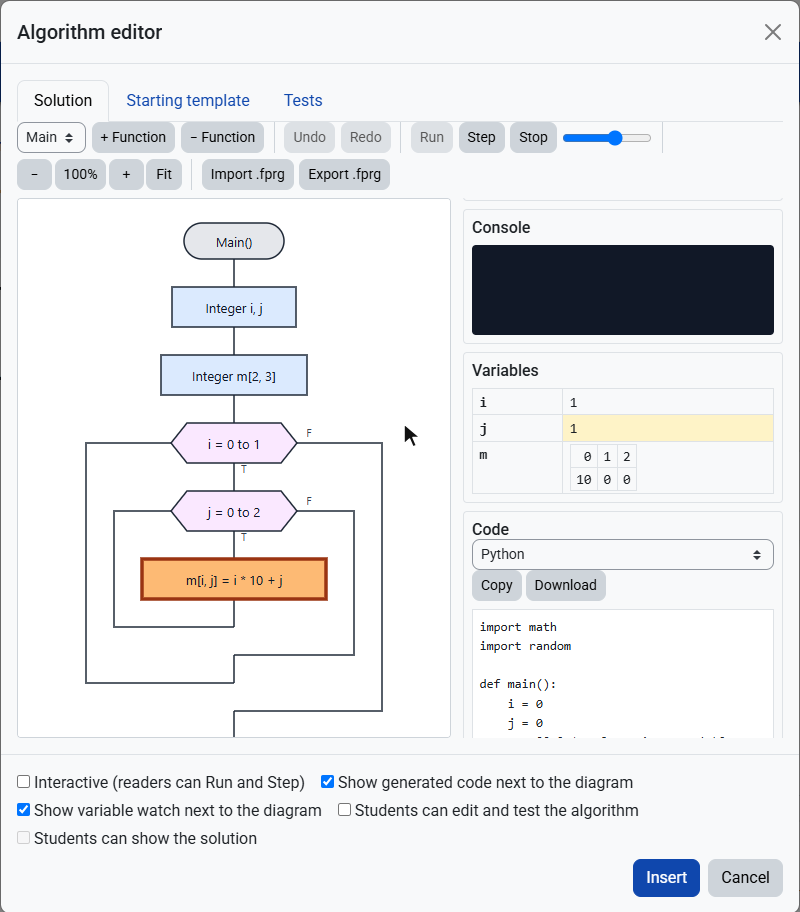
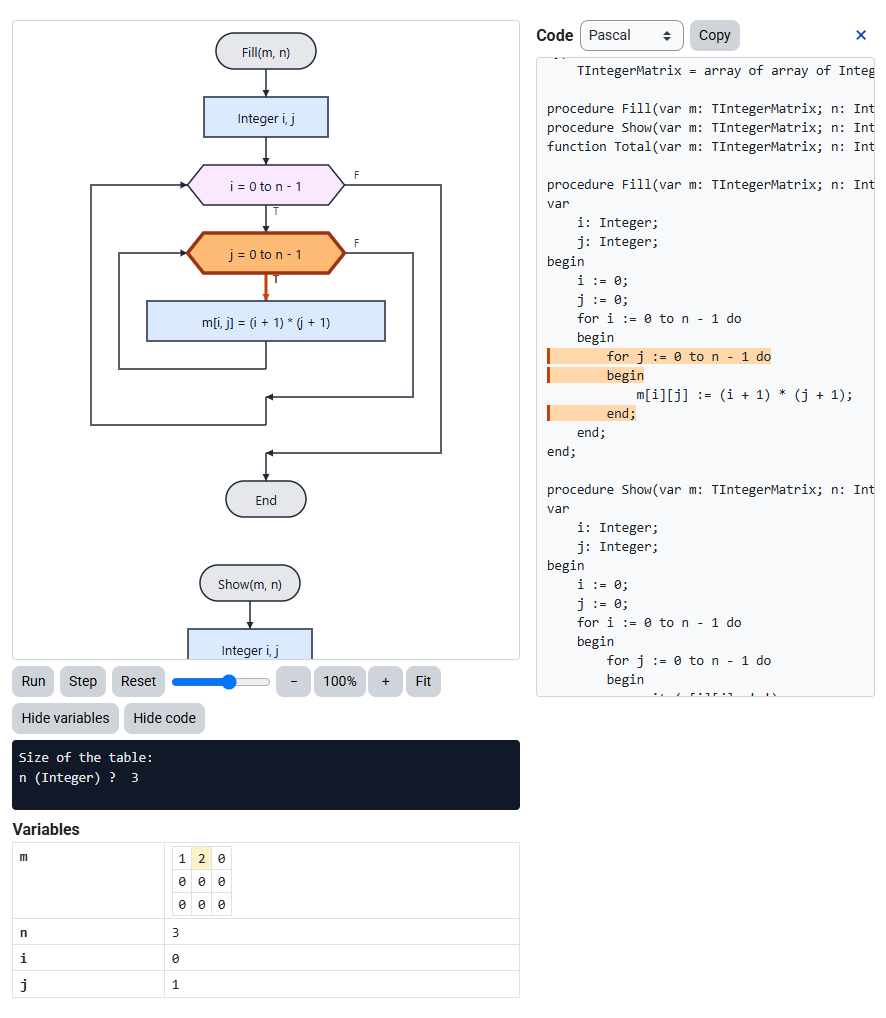
Release 2.2.0
Version, changelog, README, Marketplace description and screenshots for 2.2.0.

diff --git a/description.html b/description.html
@@ -10,12 +10,12 @@
   <p><strong>Live demo:</strong> try the plugin on <a href="https://algorithm.tsp.edu.rs" target="_blank" rel="noreferrer noopener">algorithm.tsp.edu.rs</a>. Log in as a guest, or use the demo accounts <strong>teacher</strong> and <strong>student</strong> (password <strong>Demo-2026</strong>). Everything is reset every night.</p>
 
   <hr>
-  <p><strong>What's New in v2.1.0</strong></p>
+  <p><strong>What's New in v2.2.0</strong></p>
   <ul>
-    <li><strong>Arrows:</strong> every connection that enters a block, goes back to the condition of a loop or joins another line ends in an arrow, so the direction of the flow is always clear.</li>
-    <li><strong>The branch taken is marked:</strong> during Run and Step, the T or F branch of every If, While, For and Do...While is coloured as the algorithm takes it, in the editor, in pages with filter_algorithm and in quiz questions.</li>
-    <li><strong>Save as SVG or PNG:</strong> download the whole diagram as a picture for handouts, tests on paper and slides.</li>
-    <li><strong>Names as declared in the code:</strong> a variable declared as Suma is written Suma everywhere in the generated code, also where the diagram says suma, so the code compiles in every language.</li>
+    <li><strong>The code follows the diagram:</strong> during Run and Step the lines of the generated code that belong to the current block are highlighted, in the editor, in pages and in quiz questions.</li>
+    <li><strong>Matrices as parameters:</strong> a function can take a matrix, written m: Integer[,], passed by reference like an array, in the interpreter and the code of all seven languages.</li>
+    <li><strong>Do...While shows its F branch:</strong> the line below the condition is labelled F and is marked when the loop ends.</li>
+    <li><strong>Generated code:</strong> Pascal writes Char(s, i) as a string of one character, so ToCode of it compiles.</li>
   </ul>
 
   <hr>
@@ -24,9 +24,11 @@
     <li><strong>Visual editor:</strong> Declare, Assign, Input, Output, If, For, While, Do...While, Call, Return, Comment; several functions, undo / redo.</li>
     <li><strong>Drag, copy and paste:</strong> drag a block onto a + sign with the mouse or a finger; Ctrl + C, X, V and D copy, cut, paste and duplicate blocks, also between diagrams.</li>
     <li><strong>Arrays and matrices:</strong> m[i, j] in the interpreter, the variable watch and the code in all seven languages.</li>
-    <li><strong>Interpreter:</strong> Run / Step / Stop, console with input, variable watch, infinite-loop guard and clear error messages.</li>
+    <li><strong>Save as SVG or PNG:</strong> the whole diagram as a picture for handouts and slides.</li>
+    <li><strong>Interpreter:</strong> Run / Step / Stop, console with input, variable watch, infinite-loop guard and clear error messages; the current block and the branch each condition takes are marked.</li>
+    <li><strong>Arrows:</strong> every connection that enters a block, goes back to a loop condition or joins another line ends in an arrow.</li>
     <li><strong>Flowgorithm files:</strong> import and export real <code>.fprg</code> files.</li>
-    <li><strong>Code generation:</strong> Python, C, C++, Java, C#, JavaScript and Pascal.</li>
+    <li><strong>Code generation:</strong> Python, C, C++, Java, C#, JavaScript and Pascal, every name written as declared.</li>
     <li><strong>Editable images:</strong> the diagram is an SVG image that keeps its model; double-click to edit again. Zoom and per-diagram options included.</li>
     <li><strong>Students edit and test:</strong> with filter_algorithm, students can change their own copy of a diagram in any content and run the teacher's tests.</li>
     <li><strong>Tests from the solution:</strong> the teacher enters only the inputs; the expected outputs are computed from the teacher's solution. A test can also call one function and check the value it returns.</li>
@@ -44,7 +46,7 @@
   <p><strong>Requirements</strong></p>
   <ul>
     <li><strong>Moodle:</strong> 4.5 LTS to 5.3 (PHP as required by your Moodle version).</li>
-    <li><strong>Companion plugins (optional):</strong> filter_algorithm 2.0.0 (Run / Step and the student features for readers) and qtype_algorithm 2.0.0 (quiz question type with automatic grading).</li>
+    <li><strong>Companion plugins (optional):</strong> filter_algorithm 2.2.0 (Run / Step and the student features for readers) and qtype_algorithm 2.2.0 (quiz question type with automatic grading).</li>
   </ul>
 
   <hr>

diff --git a/version.php b/version.php
@@ -25,8 +25,8 @@
 defined('MOODLE_INTERNAL') || die();
 
 $plugin->component = 'tiny_algorithm';
-$plugin->version   = 2026110400;
+$plugin->version   = 2026110500;
 $plugin->requires  = 2024100700; // Moodle 4.5.
 $plugin->supported = [405, 503];
 $plugin->maturity  = MATURITY_STABLE;
-$plugin->release   = '2.1.0';
+$plugin->release   = '2.2.0';

diff --git a/README.md b/README.md
@@ -10,7 +10,7 @@
 export Flowgorithm `.fprg` files and generate **Python**, **C**, **C++**, **Java**, **C#**, **JavaScript** or **Pascal** code -
 without leaving the editor.
 
-> Status: **stable** (2.1). Inspired by Flowgorithm, not affiliated with it.
+> Status: **stable** (2.2). Inspired by Flowgorithm, not affiliated with it.
 >
 > 🌐 **Live demo:** [algorithm.tsp.edu.rs](https://algorithm.tsp.edu.rs) (log in as a guest, or use `teacher` / `student` with password `Demo-2026`; reset every night)
 
@@ -20,14 +20,14 @@ without leaving the editor.
 |---------|-------------|
 | 🧱 **Visual Editor** | Declare, Assign, Input, Output, If, For, While, Do…While, Call, Return, Comment; several functions, undo / redo; renaming a function also renames its calls |
 | ✋ **Drag, Copy and Paste** | Drag a block onto a **+** sign with the mouse or a finger; **Ctrl + C / X / V / D** copy, cut, paste and duplicate blocks, also between diagrams; a right click (or Shift + F10) on a block opens a menu with Copy, Cut, Duplicate, Paste, Delete and **Move to… / Copy to…**, which lets you click the **+** sign where the block should go; the dialog asks before closing with changes that are not inserted |
-| 🔢 **Arrays and Matrices** | A Declare block with one size is an array `a[i]`, with two sizes a matrix `m[i, j]` (or `m[i][j]`); the variable watch shows a matrix as a table |
+| 🔢 **Arrays and Matrices** | A Declare block with one size is an array `a[i]`, with two sizes a matrix `m[i, j]` (or `m[i][j]`); the variable watch shows a matrix as a table; functions take arrays (`a: Integer[]`) and matrices (`m: Integer[,]`) as parameters, passed by reference |
 | ▶ **Interpreter** | Run / Step / Stop with a speed slider, the running block and the branch each condition takes (T or F) are highlighted, console with input prompts |
 | 🛡 **Safe Execution** | Infinite-loop guard, arrays and matrices up to 100000 elements, and clear errors in the user's language (undeclared variable, division by zero, index out of range) |
 | ⌨ **Keyboard** | Arrow keys move between the blocks and the **+** signs, **Enter** or **Space** edits a block or opens the block menu, **Delete** removes, **Escape** cancels; Enter in a field never submits the form around the editor |
 | 🔍 **Variable Watch** | Current value of every variable while stepping, changed values highlighted, long arrays shortened |
 | 🔎 **Zoom** | **−**, **+**, **100%**, **Fit** buttons or **Ctrl + mouse wheel** |
 | 📂 **Flowgorithm Files** | Import and export real `.fprg` files; unsupported elements are reported, not silently dropped |
-| 💻 **Code Generation** | Python, C, C++, Java, C#, JavaScript and Pascal, every name written as declared; the tests compile and run the generated programs and compare them with the interpreter |
+| 💻 **Code Generation** | Python, C, C++, Java, C#, JavaScript and Pascal, every name written as declared; during Run and Step the lines of the current block are highlighted; the tests compile and run the generated programs and compare them with the interpreter |
 | ➡ **Arrows** | Every connection that enters a block, goes back to a loop condition or joins another line ends in an arrow |
 | 🖼 **Editable Images** | The diagram is a normal SVG image that stores its model - double-click it to edit again; **Save as SVG** or **Save as PNG** downloads it for handouts and slides |
 | 💬 **Forums and Assignments** | Where Moodle cleans the HTML (forum posts, assignment text, glossary…) the diagram is saved as an image file of the text, so it stays visible, editable and interactive |
@@ -42,11 +42,11 @@ without leaving the editor.
 
 | | |
 |---|---|
-| **Editor** | **Reader view (Run, code, variables)** |
+| **Editor (Step: current block, branch taken, variables)** | **Reader view (Step, with the line of the code marked)** |
 | ![Editor](docs/screenshots/editor.png) | ![Reader view](docs/screenshots/reader-view.png) |
 | **Quiz: analyse an algorithm** | **Quiz: draw an algorithm** |
 | ![Quiz analyse](docs/screenshots/quiz-analyse.png) | ![Quiz draw](docs/screenshots/quiz-draw.png) |
-| **A matrix in the variable watch** | |
+| **A matrix as a function parameter (watch and Pascal code)** | |
 | ![Matrix](docs/screenshots/matrix.png) | |
 
 ## 📋 Requirements
@@ -162,6 +162,7 @@ lib/editor/tiny/plugins/algorithm/
 - Exercises are for practice, not for assessment: the solution and the expected outputs are part of the diagram (its SVG
   file), and nothing is graded or sent to the server. For graded work use `qtype_algorithm`.
 - Flowgorithm `.fprg` files cannot hold matrices, also not as parameters (the export says so).
+- A function test passes values (numbers, text, true / false) as arguments, not arrays or matrices.
 - A student's edited copy lives in the browser (`localStorage`) and does not follow them to another device or browser. When the
   teacher changes the diagram or its tests, students start again from the new version.
 

diff --git a/CHANGELOG.md b/CHANGELOG.md
@@ -1,6 +1,6 @@
 # Changelog
 
-## Unreleased
+## 2.2.0 – 2026-11-05 (stable)
 
 - **The running block is marked in the code too:** during Run and Step the lines of the generated code that belong to
   the current block are highlighted and scrolled into view, in the editor, the viewer of filter_algorithm and quiz
